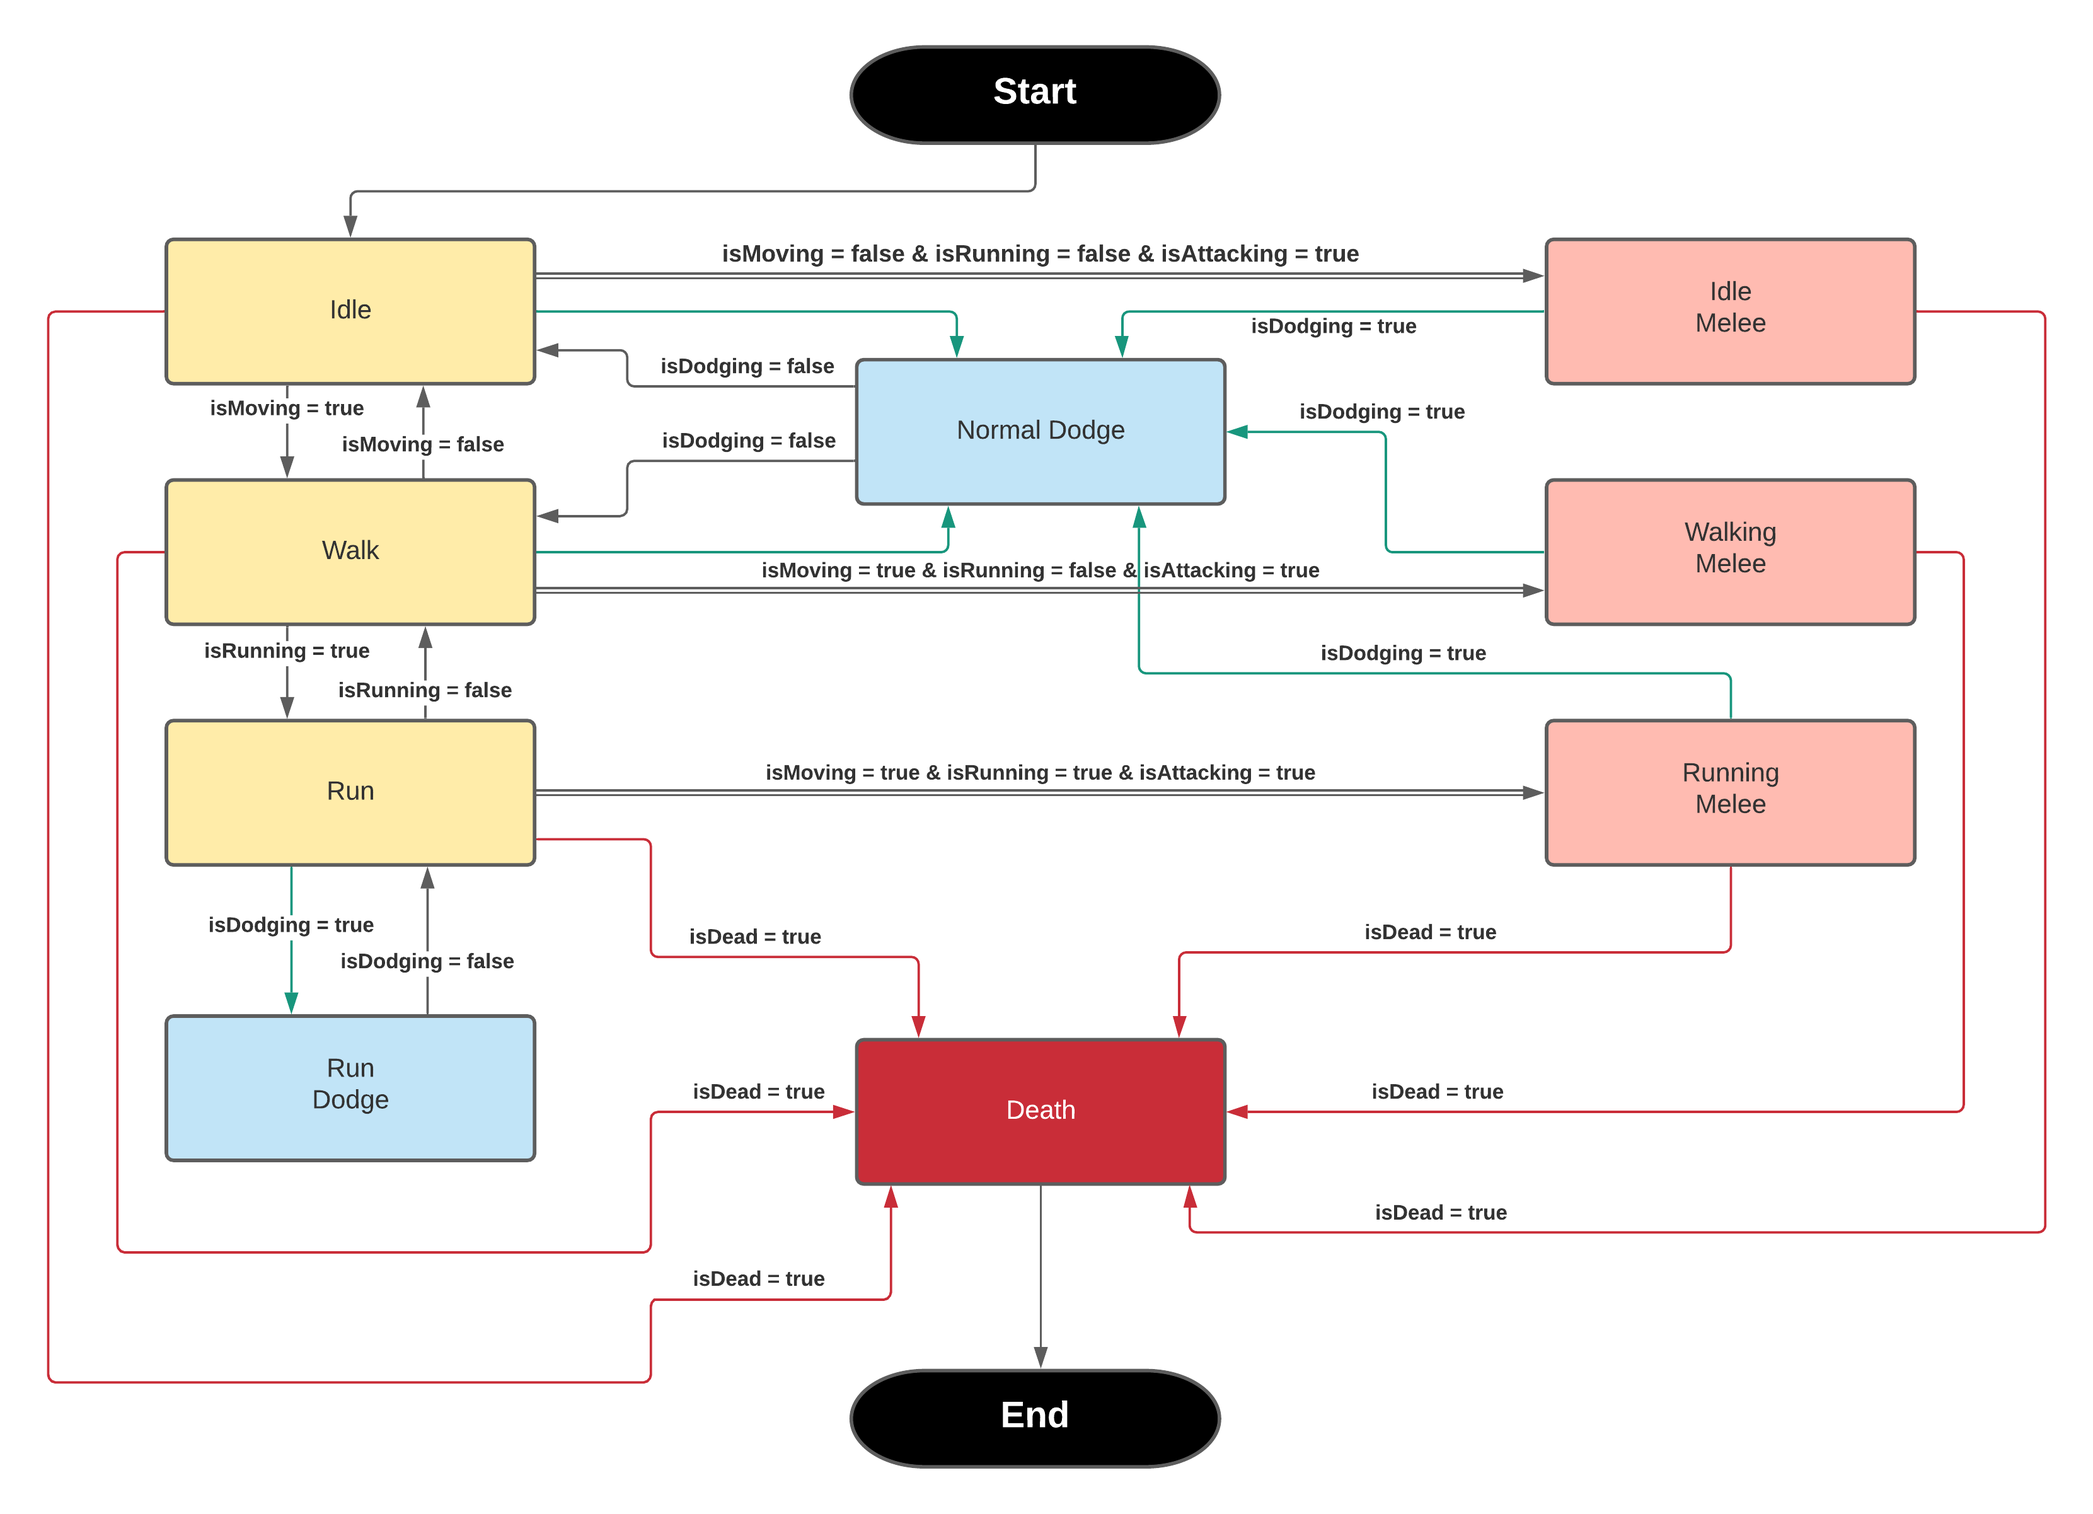
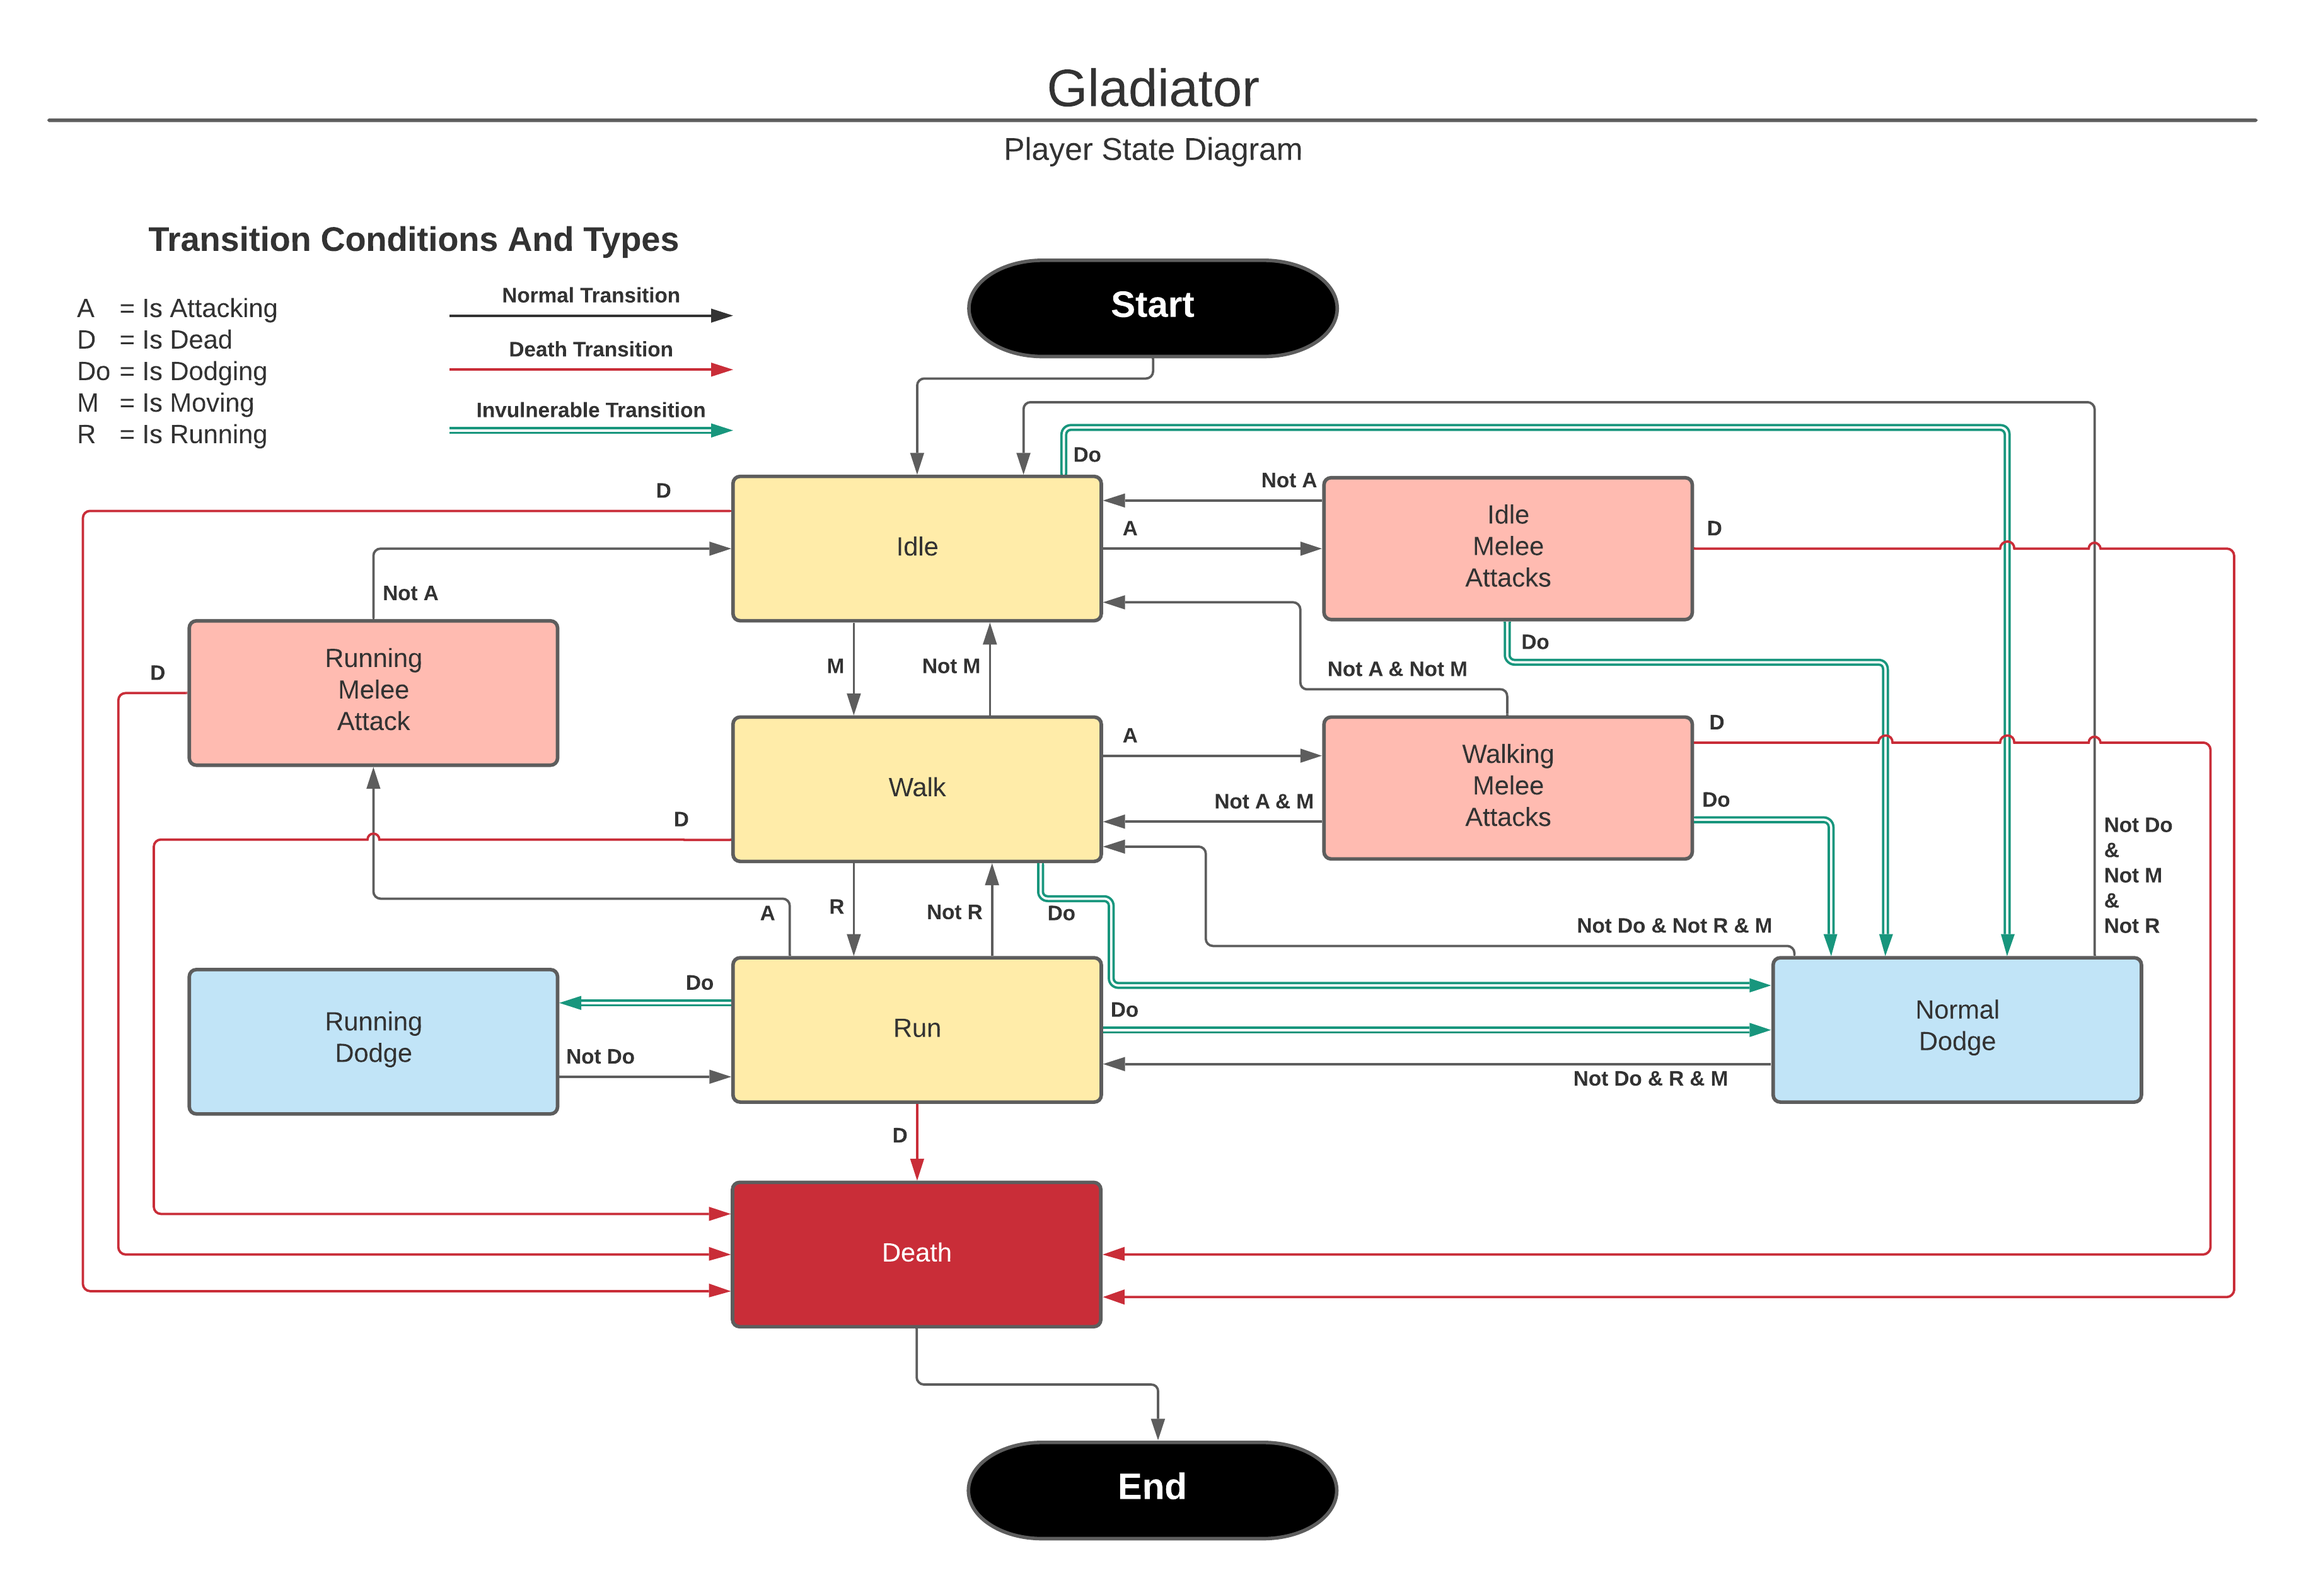
Added weapon and fixed repeated state switching
Added an axe to player mesh. The weapon mesh is an asset from the Unity store.

Conditions added to prevent repeated state switching. This happened between dodge and idle state. A condition was added to prevent this.

Updated a simplified state diagram.

diff --git a/Assets/Player/Scripts/States/PlayerIdleMeleeAttackState.cs b/Assets/Player/Scripts/States/PlayerIdleMeleeAttackState.cs
@@ -24,7 +24,7 @@ public class PlayerIdleMeleeAttackState : PlayerBaseState
 
     public override void CheckSwitchState() 
     {
-        if (!_context.AnimatorHandler.IsMeleeAttacking)
+        if (!_context.AnimatorHandler.IsMeleeAttacking && !_context.InputHandler.IsInputActiveMeleeAttack)
         {
             if (_context.InputHandler.IsInputActiveDodge)
                 SwitchState(_manager.GetDodgeState());

diff --git a/Assets/Player/Scripts/States/PlayerDodgeState.cs b/Assets/Player/Scripts/States/PlayerDodgeState.cs
@@ -20,7 +20,7 @@ public class PlayerDodgeState : PlayerBaseState
 
     public override void CheckSwitchState() 
     {
-        if (!_context.AnimatorHandler.IsDodging)
+        if (!_context.AnimatorHandler.IsDodging && !_context.InputHandler.IsInputActiveDodge)
         {
             if (_context.InputHandler.IsInputActiveMovement)
             {

diff --git a/README.md b/README.md
@@ -2,7 +2,10 @@
 A 3rd person action game where the player goes through hordes of enemies in a gladiator ring.
 
 # Docs
-1. [Game design details](\Docs\Game Design Details.md)
+1. [Game design details](Docs/game_design_details.md)
 
 # Acknowledgements
 1. Y-Bot Model and animations: Adobe Mixamo
+2. [Axe Model from 3D RPG pack, Unity Store](https://assetstore.unity.com/packages/3d/props/weapons/free-rpg-weapons-199738)
+3. [iHeartGameDev](https://www.youtube.com/c/iHeartGameDev)
+4. [samyam](https://www.youtube.com/c/samyam)
